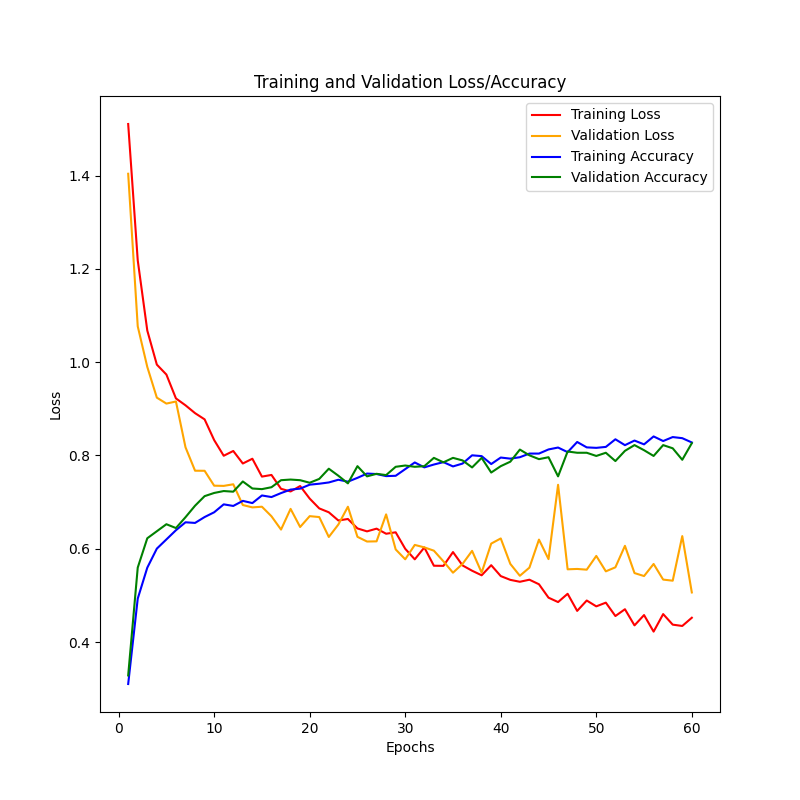
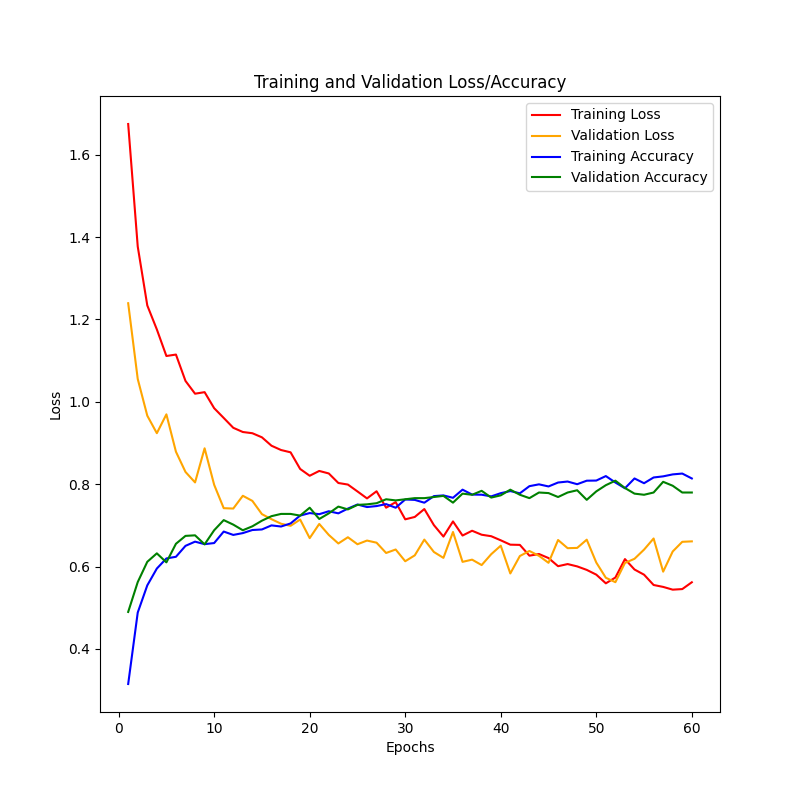
Verdict: CNN seems fine with predicting images from the training set. But not so great with images from the internet, unseen. At this point, I think I milked this project dry for general CNN skills. Perfecting it further would mean getting fixated on image prediction, which is not my end-goal. I wan

diff --git a/diagnostic_tools.py b/diagnostic_tools.py
@@ -10,13 +10,7 @@ import numpy as np
 
 from flowers_cnn import flowers_preprocessed_train_ds as trained_dataset, flowers_cnn, flowers_preprocessed_validation_ds as validation_dataset
 
-'''
-| Prediction           | Accuracy  | Loss (lower is better)       |
-| -------------------- | --------- | ---------------------------- |
-| Cat: 0.99, Dog: 0.01 | ✅ Correct | Low loss (good confidence)   |
-| Cat: 0.51, Dog: 0.49 | ✅ Correct | Higher loss (low confidence) |
-| Cat: 0.40, Dog: 0.60 | ❌ Wrong   | Very high loss               |
-'''
+
 # Assuming we want to visualise not the raw image but the pre-processed image. See what our pre-processing does.
 # We are also assuming that the pre-processing delivers a tf.data.Dataset object.
 def visualize_cnn_images(dataset, num_images=5):
@@ -56,39 +50,11 @@ def visualise_training(history_object):
     plt.title('Training and Validation Loss/Accuracy')
     plt.show()
 
-
-######################################################################
-# Create a confusion matrix to see which classes are confused with each other.
-# test_dataset = trained_dataset.take(1)  # Take a subset of the dataset for testing. The first batch is number 0.
-
 #####################################################################
 # Confusion matrix
-"""
-What a confusion matrix does
-A confusion matrix is like a scoreboard that shows how your classifier’s predictions stack up against the truth, class by class:
-Each row = actual class.
-Each column = predicted class.
-The diagonal values = correctly classified samples.
-Off-diagonal values = misclassifications, telling you which classes your model is confusing with others.
-Example for a 3-class problem:
-
-             Predicted
-           A   B   C
-Actual A [ 8   1   0 ]
-       B [ 2   5   1 ]
-       C [ 0   2   9 ]
-
-This means:
-Class A: 8 correct, 1 misclassified as B.
-Class B: 5 correct, 2 misclassified as A, 1 as C.
-Class C: 9 correct, 2 misclassified as B.
-It's a richer picture than accuracy because it shows where the model stumbles.
-"""
 
 def confuse_flowers(dataset, model, show_plot=True):
     """
-    Creates a confusion matrix for the dataset using the trained model.
-    
     Args:
         dataset: A tf.data.Dataset object containing images and labels.
         model: A trained Keras model.
@@ -153,25 +119,13 @@ def confuse_flowers(dataset, model, show_plot=True):
         plt.xlabel('Predicted label')
         plt.show()
     """
-    If you give it a 2D array (like your confusion matrix cm of shape [n_classes, n_classes]), it maps the numbers → colors and draws a rectangular grid. That’s exactly what you want.
-
-    If you give it a 3D array, it interprets it as an RGB (or RGBA) image, e.g. shape (height, width, 3) for RGB or (height, width, 4) for RGBA. That’s how you can pass an actual color image into imshow.
-
+    If you give it a 2D array (like your confusion matrix cm of shape [n_classes, n_classes]), 
+    it maps the numbers → colors and draws a rectangular grid. That’s exactly what you want.
+    If you give it a 3D array, it interprets it as an RGB (or RGBA) image, e.g. shape (height, width, 3) 
+    for RGB or (height, width, 4) for RGBA. That’s how you can pass an actual color image into imshow.
     If you give it a 1D array, it won’t work directly — you’d need to reshape it into 2D first.
     """
     return cm
-
-# visualize_cnn_images(trained_dataset) # Call the function to visualize images from the dataset.
-# Train the model in windows, then visualise the training history.
-# visualise_training(hist_obj) # Call the function to visualize training history.
-
-# validation_labels = []
-# for images, labels in validation_dataset.take(1):  # Take one batch from the validation dataset.
-    
-#     validation_labels.extend(labels.numpy().tolist())  # Convert labels to integers for confusion matrix.
-#     print(images.shape, images[0].shape, images[0])
-
-# print(f"Validation labels: {validation_labels}", len(validation_labels))  # Print the validation labels and their count. 
 
 if platform.system() == 'Windows':
     print("Running on Windows")
@@ -179,8 +133,8 @@ if platform.system() == 'Windows':
 else:
     saved_dir = '/mnt/c/python_work/tensorFlow/wsl_venv/Udacity/flowers/saved_models'
 
-loaded_model = tf.keras.models.load_model(os.path.join(saved_dir, 'loss50_a82.keras'))  # Load the trained model.
-flower_confusion = confuse_flowers(validation_dataset, loaded_model, show_plot=True)  # Call the function to create a confusion matrix for the validation dataset, where the problem is.
+loaded_model = tf.keras.models.load_model(os.path.join(saved_dir, 'loss56_a80_fix.keras'))  # Load the trained model.
+# flower_confusion = confuse_flowers(validation_dataset, loaded_model, show_plot=False)  # Call the function to create a confusion matrix for the validation dataset, where the problem is.
 
 def create_class_weights(cm, class_names):
     """
@@ -207,9 +161,11 @@ def create_class_weights(cm, class_names):
         else:
             counter += 1
             class_weights[counter] = 1.0  # best class gets weight 1.0
-    print("Class weights:", class_weights)    
+    # print("Class weights:", class_weights)    
     return class_weights
         
-class_weights = create_class_weights(flower_confusion, flowers_cnn.classes)
+# class_weights = create_class_weights(flower_confusion, flowers_cnn.classes)
+# class_weights[4] = 1.6
+# print("Adjusted class weights:", class_weights, flowers_cnn.classes, sep='\n')
 
 

diff --git a/flowers_cnn.py b/flowers_cnn.py
@@ -129,7 +129,7 @@ class FlowersCNN:
             layers.Conv2D(64, (3, 3), activation='relu'),
             
             layers.MaxPooling2D((2, 2)),
-            layers.Conv2D(128, (3, 3), activation='relu'),
+            layers.Conv2D(128, (3, 3), activation='relu', name='conv_128'),
             layers.MaxPooling2D((2, 2)),
             # Rule of thumb: Dropout early in the network disrupts low-level feature learning (risky),
             # dropout late in the network disrupts high-level memorization (usually good). 
@@ -204,12 +204,13 @@ class FlowersCNN:
         image = image / 255.0  # Normalize the image to [0, 1]
         image = np.expand_dims(image, axis=0)  # Add batch dimension
         # Make prediction
-        predictions = loaded_model.predict(image) # Produces an array of probabilities for each class. 
+        predictions = loaded_model.predict(image) # Produces an array of probabilities for each class.
+        print(f"Raw model predictions: {predictions}") 
         # The array has 2 dimensions: the first dimension is the batch size (1 in this case), and the second dimension is the number of classes. The output is a 2D array with shape (1, num_classes).
         predicted_class = np.argmax(predictions, axis=1) # Get the index of the class with the highest probability. 
         # Axis 1 means we are looking for the maximum value along the columns. The rows are the different images in the batch.
         # predicted_class is a 1D array with the index of the predicted class.
-        print(self.classes)  # Print the class names for debugging.
+        print(f"class indices: {self.classes}")  # Print the class indices for debugging.
         predicted_class_name = self.classes[predicted_class[0]]  # Get the class name from the index
         confidence = np.max(predictions)  # Get the confidence of the prediction
         confidence_perc = float(confidence) * 100  # Convert to percentage

diff --git a/model_fixes.py b/model_fixes.py
@@ -2,4 +2,4 @@ from flowers_cnn import flowers_cnn
 from flowers_cnn import flowers_preprocessed_train_ds, flowers_preprocessed_validation_ds
 from diagnostic_tools import class_weights
 
-trained_again = flowers_cnn.train_model(flowers_preprocessed_train_ds, flowers_preprocessed_validation_ds, epochs=40, class_weights=class_weights)
+trained_again = flowers_cnn.train_model(flowers_preprocessed_train_ds, flowers_preprocessed_validation_ds, epochs=60, class_weights=class_weights)

diff --git a/predictions.py b/predictions.py
@@ -11,6 +11,6 @@ if platform.system() == 'Windows':
 else:
     saved_dir = '/mnt/c/python_work/tensorFlow/wsl_venv/Udacity/flowers/saved_models'
 
-model_path = os.path.join(saved_dir, 'loss50_a82.keras')
-prediction = flowers_cnn.flowers_predict(model_path, './predict/daisy.jpg')
+model_path = os.path.join(saved_dir, 'loss56_a80_fix.keras')
+prediction = flowers_cnn.flowers_predict(model_path, './predict/rose_t.jpg')
 print(prediction)
